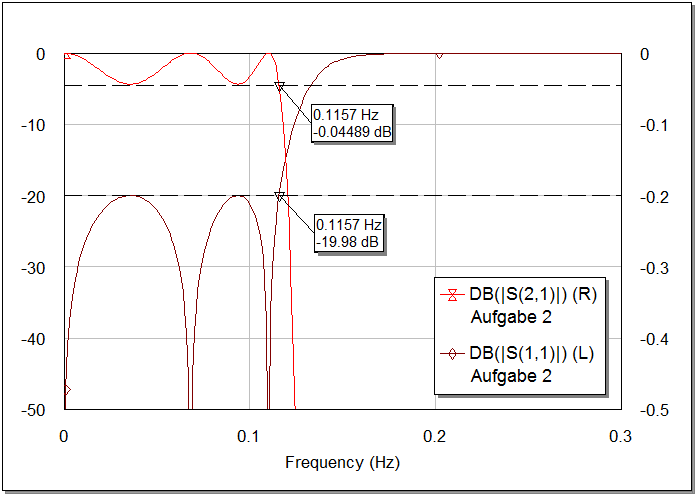
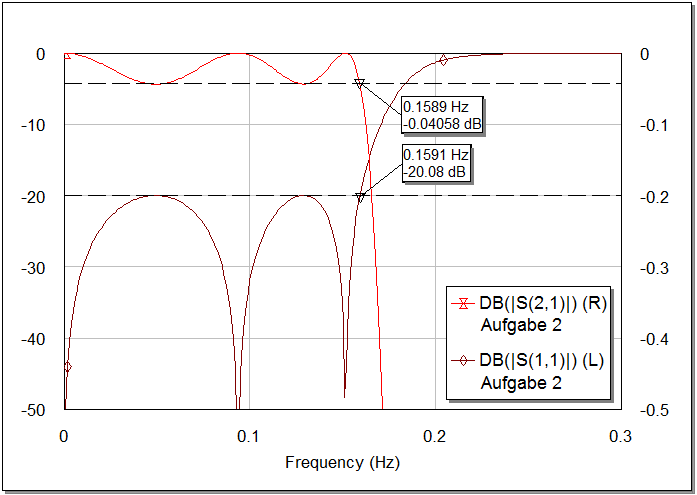
graph-LC was wrong, fixing

diff --git a/sections/umsetzung/richards-frequenztransformation.tex b/sections/umsetzung/richards-frequenztransformation.tex
@@ -1,15 +1,41 @@
 \subsection{Richard's Frequenztransformation}
 
+Das LC-Filter von der Abbildung  \ref{fig:Topologie_Prototyp.png} wird nun mit
+der  Richards-Frequenztransformation   in   Stichleitungen   umgewandelt.  Die
+Grenzfrequenz $f_c$ ist dabei \SI{0.8}{\giga\hertz} und die Bezugsfrequenz $f$
+ist \SI{2}{\giga\hertz}.
+
+\begin{equation}
+    \Omega = \tan\frac{\pi}{2}\frac{f_c}{f}
+\end{equation}
+
+Die entnormierten Leitungsimpedanzen (mit einer eingangs- und Ausgangsimpedanz
+von  \SI{50}{\ohm}) werden  von  den  g-Parameter  nun  wie  folgt  berechnet.
+
+\begin{align*}
+    R_0 &= 50 g_0               & L_4 &= \frac{50g_4}{\Omega} \\ 
+    C_1 &= \frac{g_1}{50\Omega} & C_5 &= \frac{g_5}{50\Omega} \\ 
+    L_2 &= \frac{50g_2}{\Omega} & R_6 &= 50 g_6               \\ 
+    C_3 &= \frac{g_3}{50\Omega} &     &                       \\
+\end{align*}
+
+Die  Abbildung  \ref{fig:stripline-richards}  zeigt,  wie die Kapazit\"aten in
+TLOCs   und   die   Inuktivit\"aten   in   TLSCs   umgewandelt  worden   sind.
+
 \begin{figure}[h!]
     \centering
     \includegraphics[width=\imagewidth]{images/stripline-richards}
-    \caption{}
+    \caption{Resultierende Umwandlung des LC-Filters in Stichleitungen mithilfe der Richards-Transformation.}
+    \label{fig:stripline-richards}
 \end{figure}
+
+Der Amplitudengang und Reflexion ist in der Abbildung \ref{fig:graph-richards} ersichtlich. Wie erwartet, verh\"alt sich 
 
 \begin{figure}[h!]
     \centering
     \includegraphics[width=\imagewidth]{images/graph-richards}
     \caption{}
+    \label{fig:graph-richards}
 \end{figure}
 
 
